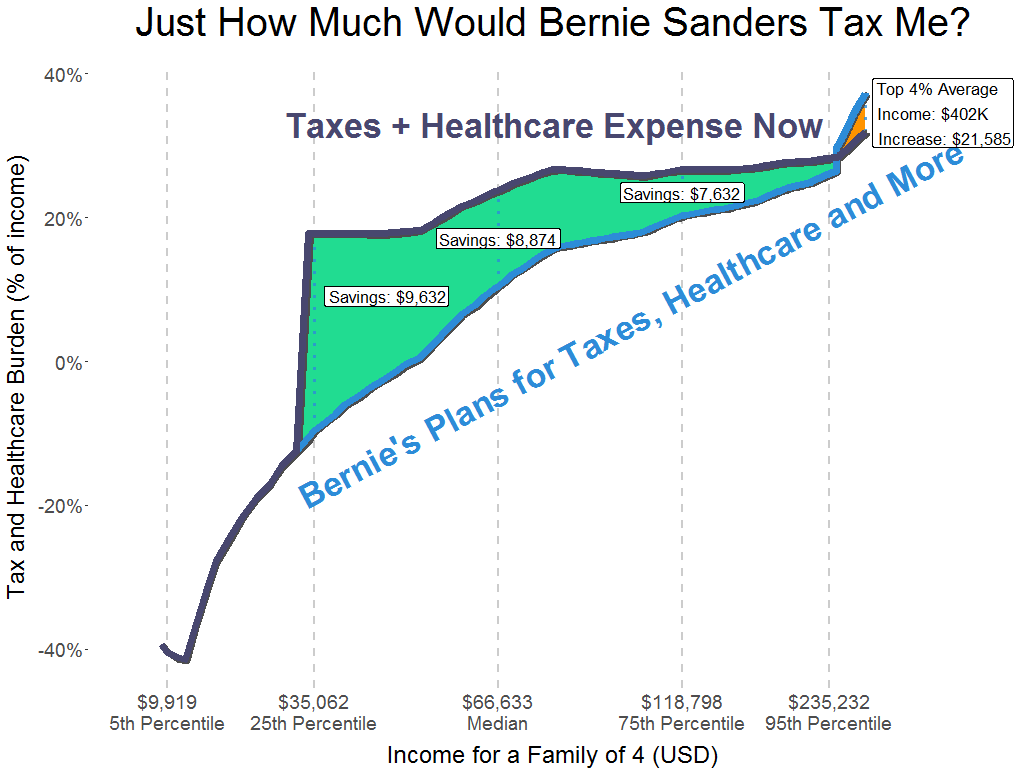
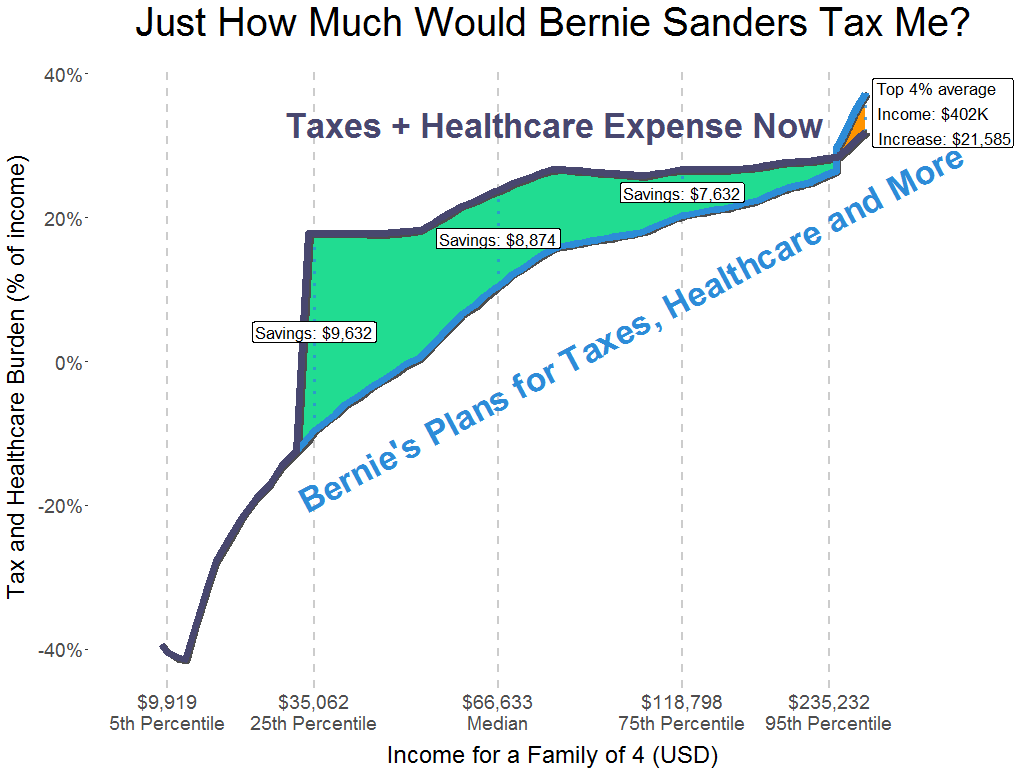
full support for single filers, polished plots for single male and single feamile incomes

Changed region(s): [[0.2812, 0.1875, 0.9375, 0.6875], [0.25, 0.375, 0.4375, 0.4688], [0.9062, 0.0938, 0.9688, 0.125]]

diff --git a/README.md b/README.md
@@ -3,8 +3,9 @@ This project compiles all of the proposed tax plans from Democratic
 Presidential Candidate Senator Bernie Sanders to determine the effective tax
 rates for individuals at different outcomes in comparison with current tax laws.
 
-The current settings are for a family of 4 living in a state that took the 
-Obamacare medicaid expansion. The following items are included in the 
+Update Feb 1st: Support added for all filing types and family sizes. Polished plots included for family of 4, single male, and single female. 
+
+The following items are included in the 
 calculations:
 
 * Federal Income Tax
@@ -30,4 +31,4 @@ The impact of the following [proposals from Bernie Sanders](https://berniesander
 
 Note that impacts on investment earnings are not included in this project.
 
-![Comparative Effective Tax Rates](bernietax.png)
+![Comparative Effective Tax Rates](bernietax_color.png)
